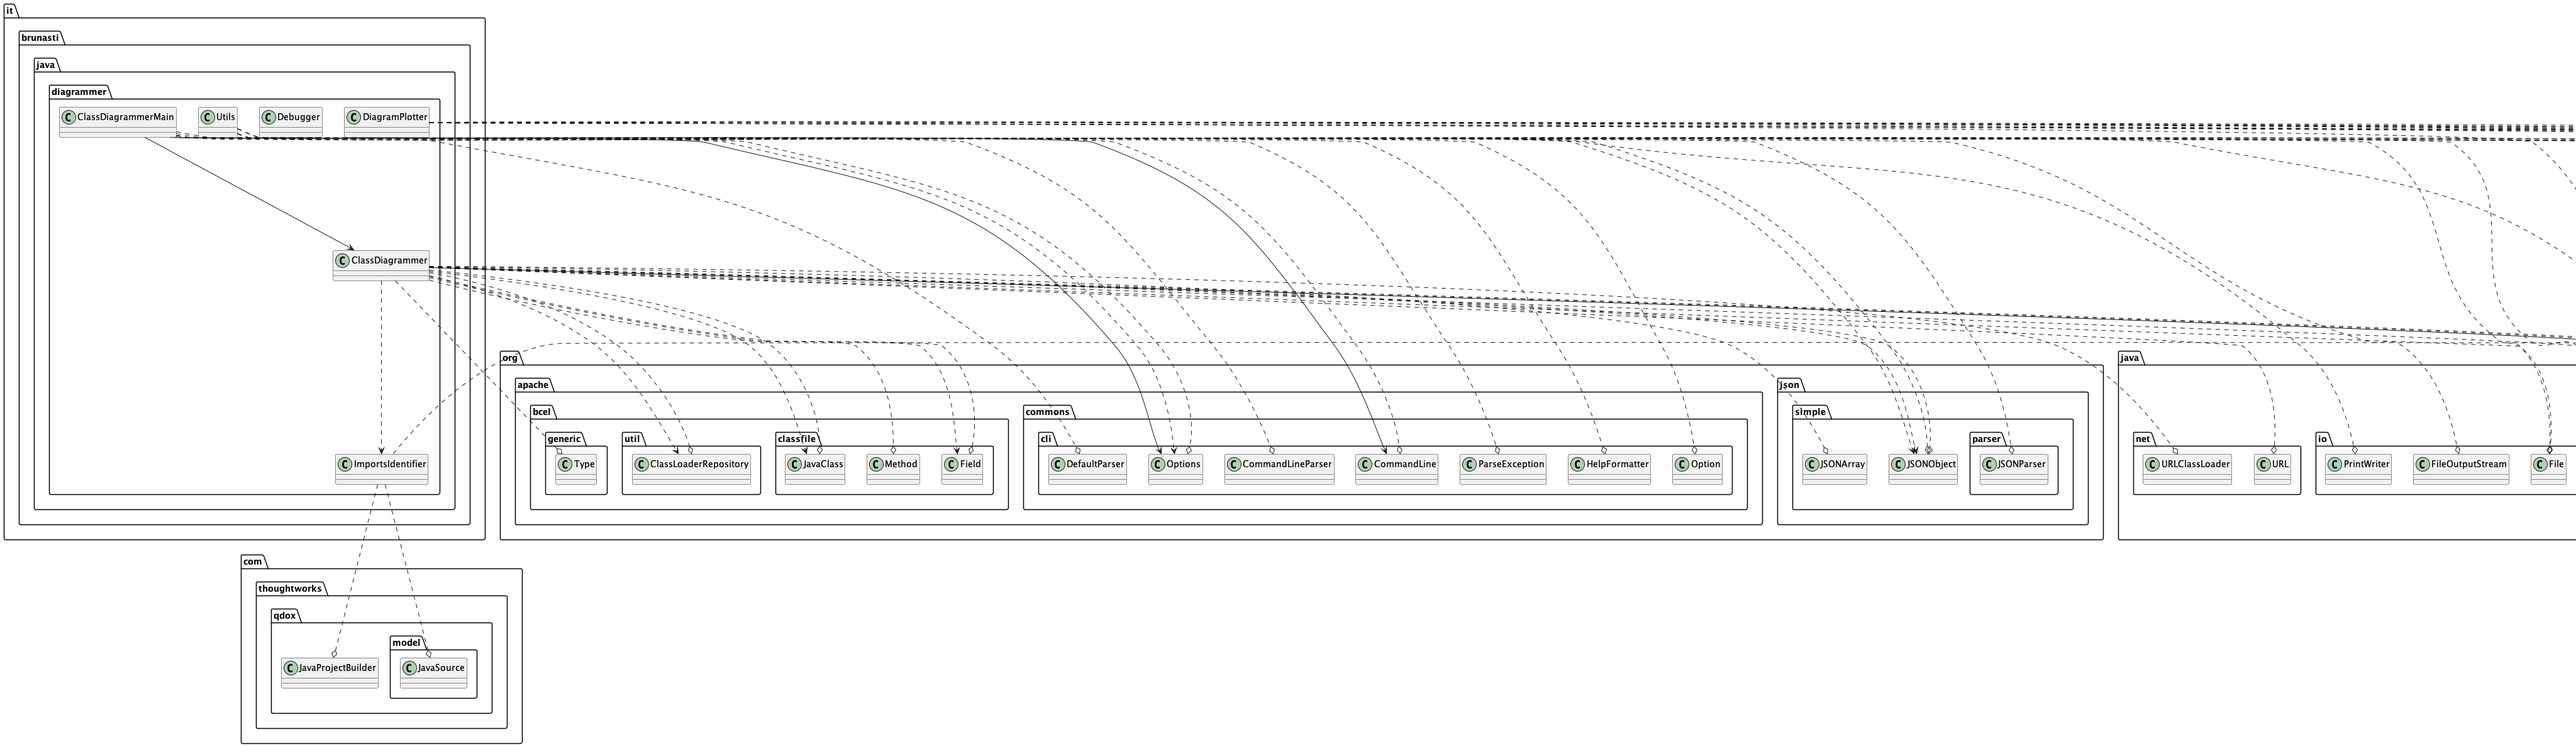
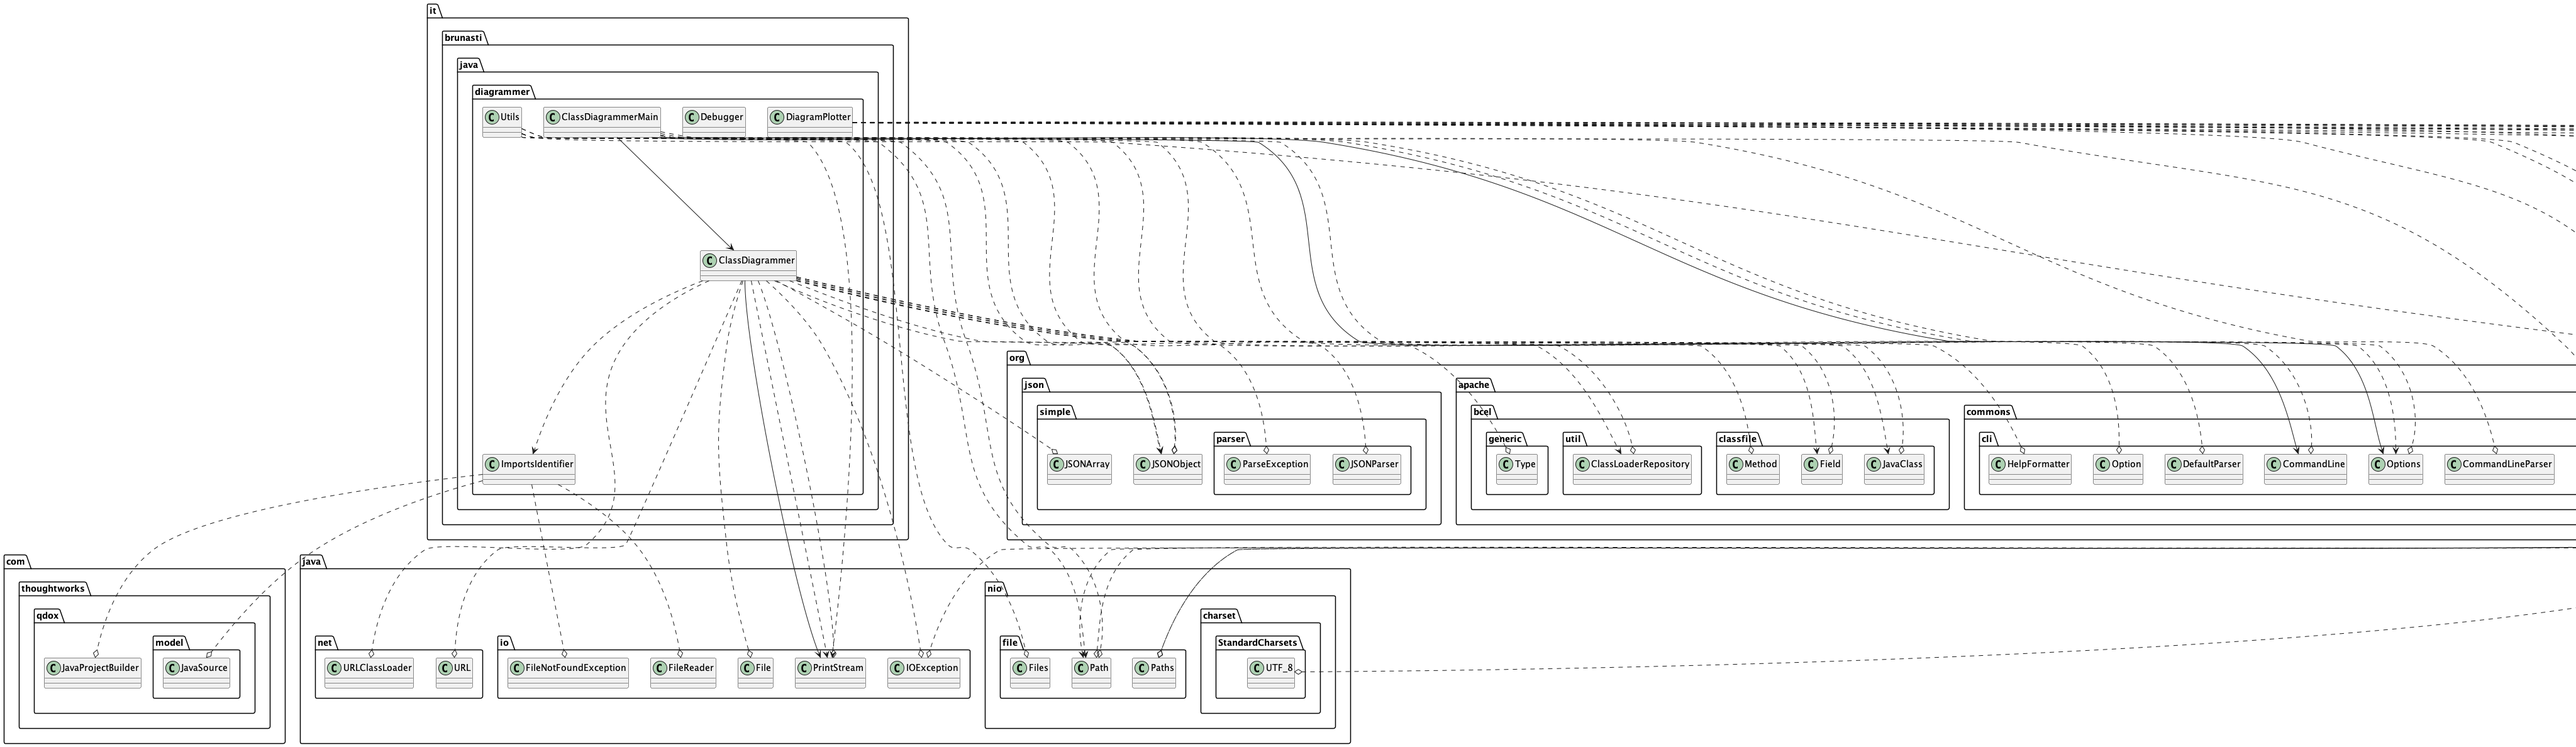
Remodels exception handling - more

diff --git a/src/main/java/it/brunasti/java/diagrammer/ImportsIdentifier.java b/src/main/java/it/brunasti/java/diagrammer/ImportsIdentifier.java
@@ -7,6 +7,8 @@ package it.brunasti.java.diagrammer;
 
 import com.thoughtworks.qdox.JavaProjectBuilder;
 import com.thoughtworks.qdox.model.JavaSource;
+
+import java.io.FileNotFoundException;
 import java.io.FileReader;
 import java.util.Collection;
 import java.util.HashSet;
@@ -45,21 +47,16 @@ public class ImportsIdentifier {
         for (String importName : src.getImports()) {
           Debugger.debug(5, "ImportsIdentifier.extractImports : importName " + importName);
           // TODO: could exclude imports with a test like : if (importName.startsWith("")) {
-          try {
-            if (importFiles.contains(importName)) {
-              continue;
-            }
-            importFiles.add(importName);
-            String newImport = sysPath + importName.replaceAll("\\.", "/") + FILE_TYPE;
-            Debugger.debug(6, "ImportsIdentifier.extractImports : newImport " + newImport);
-            extractImports(newImport, sysPath);
-          } catch (Exception ex) {
-            Debugger.debug(4, "  Error ImportsIdentifier.extractImports : "
-                    + ex.getMessage() + " = " + path + " - " + importName);
+          if (importFiles.contains(importName)) {
+            continue;
           }
+          importFiles.add(importName);
+          String newImport = sysPath + importName.replaceAll("\\.", "/") + FILE_TYPE;
+          Debugger.debug(6, "ImportsIdentifier.extractImports : newImport " + newImport);
+          extractImports(newImport, sysPath);
         }
       }
-    } catch (Exception ex) {
+    } catch (FileNotFoundException ex) {
       Debugger.debug(3, "  Error ImportsIdentifier.extractImports : "
               + ex.getMessage() + " = " + path);
     }

diff --git a/src/main/java/it/brunasti/java/diagrammer/ClassDiagrammerMain.java b/src/main/java/it/brunasti/java/diagrammer/ClassDiagrammerMain.java
@@ -1,8 +1,7 @@
 package it.brunasti.java.diagrammer;
 
-import java.io.FileOutputStream;
-import java.io.PrintStream;
-import java.io.PrintWriter;
+import java.io.*;
+
 import org.apache.commons.cli.CommandLine;
 import org.apache.commons.cli.CommandLineParser;
 import org.apache.commons.cli.DefaultParser;
@@ -81,8 +80,9 @@ public class ClassDiagrammerMain {
           try {
             int dl = Integer.parseInt(debugLevelString);
             Debugger.setDebug(dl);
-          } catch (Exception ex) {
-            ex.printStackTrace(System.err);
+          } catch (NumberFormatException ex) {
+            System.err.println("Error the option Debug ("
+                    + optionDebug.getDescription() + ") : " + ex.getMessage());
             return false;
           }
         } else {
@@ -225,7 +225,7 @@ public class ClassDiagrammerMain {
       if (null != file) {
         file.close();
       }
-    } catch (Exception ex) {
+    } catch (IOException ex) {
       ex.printStackTrace();
     }
   }

diff --git a/src/main/java/it/brunasti/java/diagrammer/ClassDiagrammer.java b/src/main/java/it/brunasti/java/diagrammer/ClassDiagrammer.java
@@ -499,17 +499,18 @@ public class ClassDiagrammer {
     }
 
     ArrayList<String> files = new ArrayList<>();
-    ClassLoader classLoader = getClassLoader(path);
-    if (null == classLoader) {
-      System.err.println("Class loader not created");
-      return;
-    }
-
     try {
       Set<String> dirs = Utils.listDirectories(path);
       dirs.forEach(dir -> files.addAll(iterateSubDirectories(path, dir)));
     } catch (IOException e) {
       System.err.println("Error listing directories : " + e.getMessage());
+    }
+
+    ClassLoader classLoader = getClassLoader(path);
+    Debugger.debug(2, "classLoader [" + classLoader + "]");
+    if (null == classLoader) {
+      System.err.println("Class loader not created");
+      return;
     }
 
     ClassLoaderRepository rep = new ClassLoaderRepository(classLoader);

diff --git a/src/main/java/it/brunasti/java/diagrammer/Utils.java b/src/main/java/it/brunasti/java/diagrammer/Utils.java
@@ -1,9 +1,6 @@
 package it.brunasti.java.diagrammer;
 
-import java.io.File;
-import java.io.FileReader;
-import java.io.IOException;
-import java.io.PrintStream;
+import java.io.*;
 import java.nio.file.Files;
 import java.nio.file.Path;
 import java.nio.file.Paths;
@@ -14,6 +11,7 @@ import java.util.stream.Collectors;
 import java.util.stream.Stream;
 import org.json.simple.JSONObject;
 import org.json.simple.parser.JSONParser;
+import org.json.simple.parser.ParseException;
 
 
 /**
@@ -149,7 +147,7 @@ public final class Utils {
     try {
       Object obj = parser.parse(new FileReader(jsonFileName));
       return (JSONObject) obj;
-    } catch (Exception e) {
+    } catch (IOException | ParseException e) {
       e.printStackTrace(System.err);
       return null;
     }

diff --git a/src/test/java/it/brunasti/java/diagrammer/ClassDiagrammerTest.java b/src/test/java/it/brunasti/java/diagrammer/ClassDiagrammerTest.java
@@ -28,8 +28,13 @@ public class ClassDiagrammerTest implements TestConstants {
   @Test
   @DisplayName("Generate Diagram from non existing directory")
   void testGenerateDiagram_Nodir() {
+    Debugger.setDebug(5);
     ClassDiagrammer classDiagrammer = new ClassDiagrammer();
-    assertDoesNotThrow(() -> classDiagrammer.generateDiagram(nonExistingDirectory,configurationFileName, null));
+    assertDoesNotThrow(() ->
+            classDiagrammer.generateDiagram(
+                    nonExistingDirectory,
+                    configurationFileName,
+                    null));
   }
 
   @Test
